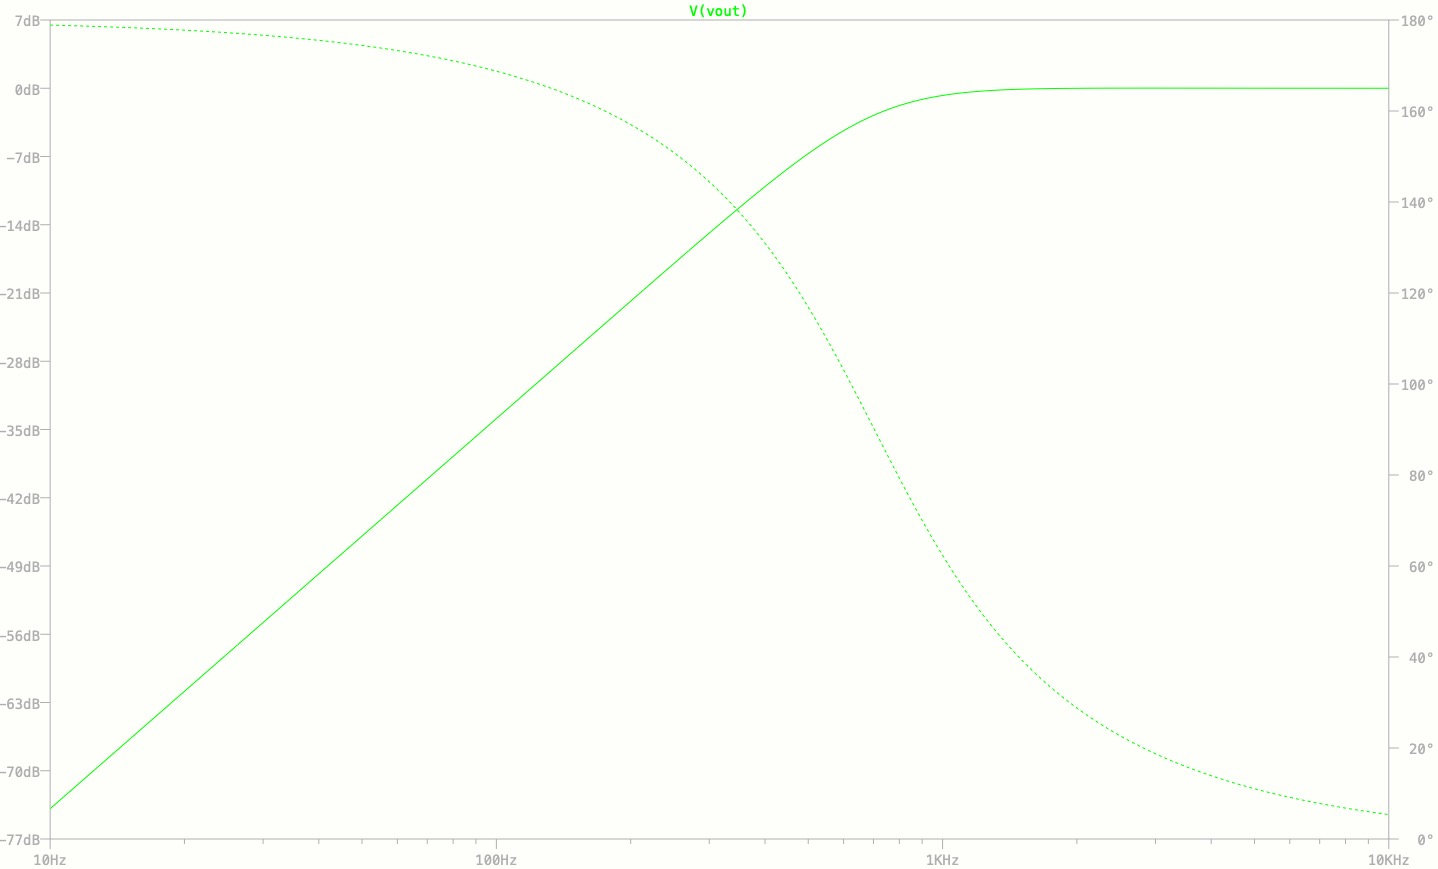
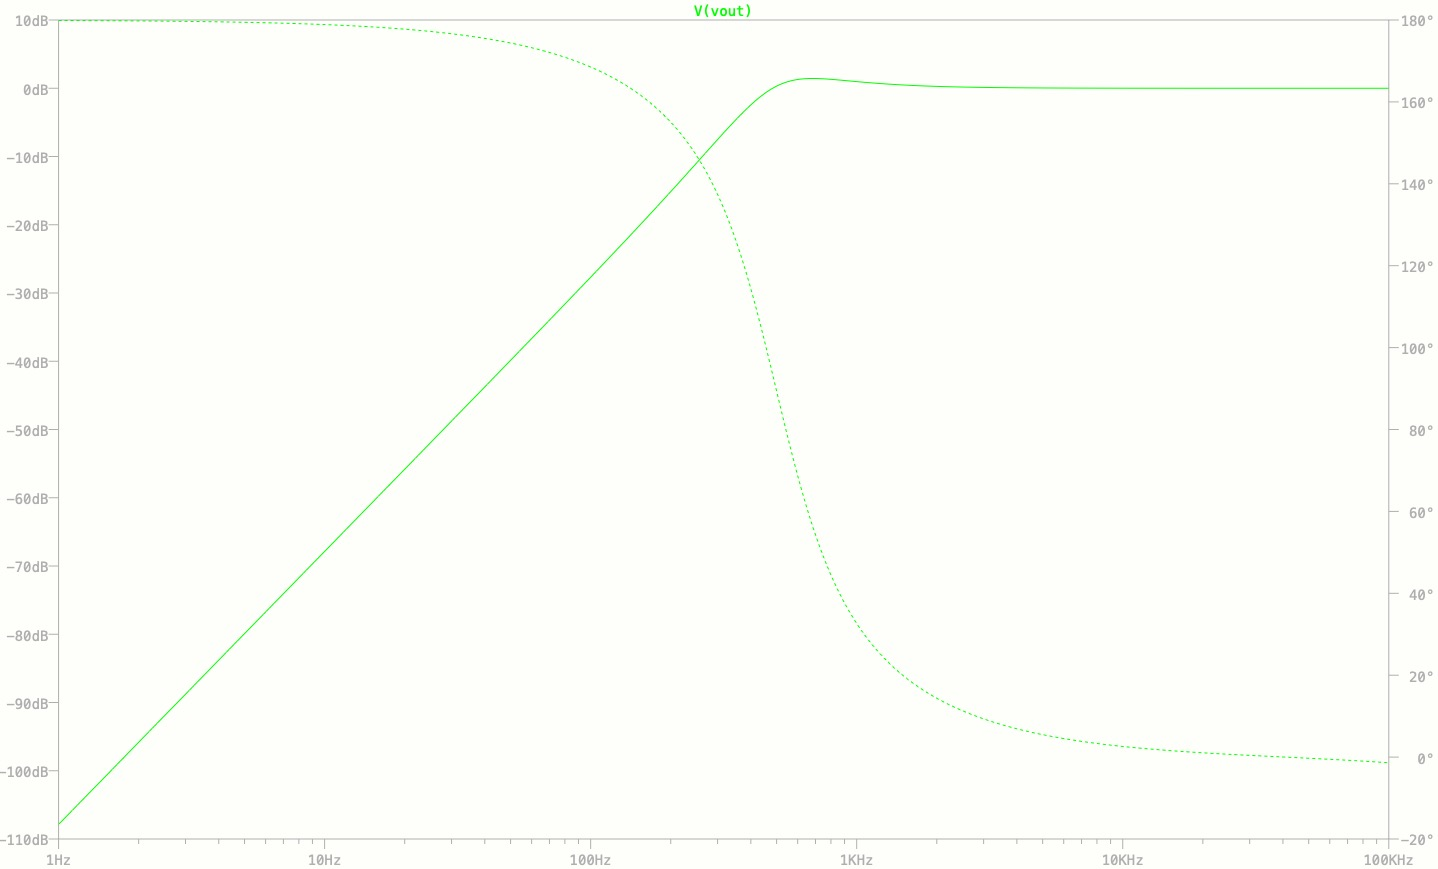
termine
Conclusiones. Rehice simulacion con r coorecta

diff --git a/Informe/desarrollo.tex b/Informe/desarrollo.tex
@@ -67,13 +67,13 @@ Se lograron los siguientes resultados.\\
 	\includegraphics[width=10cm]{imagenes/Step}
 	\caption{Respuesta al escal\'on.}
 \end{figure}
-Se puede observar que se logra un nivel de tensi\'on estable cerca de los $2 \ms$. Es esperable que se vea reflejado en un nivel de $1\V$ al comienzo del escal\'on si consideramos al ascenso a $1\V$  c\'omo una señal que contiene a todas las frecuencias. Adem\'as, se ve que el valor al que estabiliza es $0 \V$, que es acorde al comportamiento del filtro si se interpreta a la tensi\'on continua como una señal de frecuencia nula.\\
+Se puede observar que se logra un nivel de tensi\'on estable cerca de los $2 \ms$. Es esperable que se vea reflejado en un nivel de $1\V$ al comienzo del escal\'on si consideramos al ascenso a $1\V$  como una señal que contiene a todas las frecuencias. Adem\'as, se ve que el valor al que estabiliza es $0 \V$, que es acorde al comportamiento del filtro si se interpreta a la tensi\'on continua como una señal de frecuencia nula.\\
 
 \begin{figure}[hbt]
 	\centering
 	\includegraphics[width=10cm]{imagenes/Impulse}	\caption{Respuesta al impulso.}
 \end{figure}
-Aqui se observa que existe mucha mas variaci\'on de tensi\'on en el transitorio hasta los $0\V$, que se alcanzan en $2 \ms$. Debido a que solo se observa el comportamiento del impuslo desde el $0^+$, este tiene pendiente negativa y por ello el filtro tiene una salida con tensi\'on negativa. \\
+Aqu\'i se observa que existe mucha m\'as variaci\'on de tensi\'on en el transitorio hasta los $0\V$, que se alcanzan en $2 \ms$. Debido a que solo se observa el comportamiento del impuslo desde el $0^+$, este tiene pendiente negativa y por ello el filtro tiene una salida con tensi\'on negativa. \\
 Adem\'as, la señal deun impulso se puede considerar como la derivada del escal\'on, resulta entonces razonable con este tipo de sistema (Lineal y temporalmente invariante) que la salida sea la derivada del resultado anterior.
 
 \begin{figure}[H]
@@ -251,7 +251,16 @@ Aqui las diferencias entre el filtro real y el ideal son mas aparentes, esta dif
 %---------------------------------------------------------------%
 
 \subsection*{Simulaci\'on}
-	Para verificar que el funcionamiento del circuito sea cerca del esperado, se utiliz\'o el software de simulaci\'on \textit{LTSpice} con los componentes de valores comerciales. 
+	Para verificar que el funcionamiento del circuito sea cerca del esperado, se utiliz\'o el software de simulaci\'on \textit{LTSpice} con los componentes de valores comerciales. Se utiliz\'o el siguiente circuito.\\
+	
+		
+\begin{figure}[hbt]
+	\centering
+	\includegraphics[width=10cm]{imagenes/Simulacion}
+	\caption{Diagrama \textit{Bode} del circuito simulado}
+\end{figure}
+	
+\pagebreak	
 \begin{figure}[hbt]
 	\centering
 	\includegraphics[width=10cm]{imagenes/BodeSimulacion}
@@ -263,18 +272,18 @@ Se utiliz\'o la directiva \texttt{.ac dec 100 1 1000000 } para
 variar la  frecuencia de la fuente de entrada \texttt{ Vin } desde  $1 \si{\hertz}$ hasta $100 \kHz$. Luego se import\'o la biblioteca \textit{TL081} para el operacional. Produciendo este diagrama que resulta ser coherente con lo estudiado analiticamente.
 Luego, seguir\'an pruebas de respuesta en funci\'on de varias de las mismas señales que ya se estudiaron.
 
-\begin{figure}[h]
+\begin{figure}[hbt]
 \begin{centering}
 
 	\begin{minipage}[b]{.4\linewidth}
 	\centering
-	\includegraphics[width=1.3\linewidth]{imagenes/StepSimulacion}
+	\includegraphics[width=1.1\linewidth]{imagenes/StepSimulacion}
 	\caption{Respuesta al escal\'on del circuito simulado}
 	\end{minipage}
 	\hfill
 	\begin{minipage}[b]{.4\linewidth}
 	\centering
-	\includegraphics[width=1.3\linewidth]{imagenes/ImpulseSimulacion}
+	\includegraphics[width=1.1\linewidth]{imagenes/ImpulseSimulacion}
 	\caption{Respuesta al impulso del circuito simulado}
 	\end{minipage}
 \end{centering}
@@ -283,22 +292,33 @@ Luego, seguir\'an pruebas de respuesta en funci\'on de varias de las mismas señ
 
 Estas respuestas se corresponden con los resultados hallados anteriormente, encontrando diferencias en los niveles de tensi\'on. Siendo la curva azul, la  que representa la entrada y la curva verde la que representa la salida.
 
-\begin{figure}[h]
+\begin{figure}[H]
 \begin{centering}
 
 	\begin{minipage}[b]{.4\linewidth}
 	\centering
-	\includegraphics[width=1.3\linewidth]{imagenes/Sim}
-	\caption{Respuesta al escal\'on del circuito simulado}
+	\includegraphics[width=1.1\linewidth]{imagenes/SimCuadrada_f:10}
+	\caption{Respuesta a señal cuadrada de $f=\frac{f_0}{10}$ del circuito simulado}
 	\end{minipage}
 	\hfill
 	\begin{minipage}[b]{.4\linewidth}
 	\centering
-	\includegraphics[width=1.3\linewidth]{imagenes/ImpulseSimulacion}
-	\caption{Respuesta al impulso del circuito simulado}
+	\includegraphics[width=1.1\linewidth]{imagenes/SimCuadrada_f}
+	\caption{Respuesta a señal cuadrada de $f=f_0$ del circuito simulado}
 	\end{minipage}
 \end{centering}
+\pagebreak
 \end{figure}
+\begin{centering}
+\begin{figure}[H]
+	\centering	
+	\includegraphics[width=0.4\textwidth]{imagenes/SimCuadrada_10f}	\caption{Respuesta a señal cuadrada de $f=10.f_0$ del circuito simulado}
+\end{figure}
+\end{centering}
+Las respuestas a las señales cuadradas continuan comportandose similar al estudio anal\'itico, aunque existen diferencias en los niveles de tensi\'on que toman las señales.
+
+
+
 
 
 %---------------------------------------------------------------%

diff --git a/Informe/conclusiones.tex b/Informe/conclusiones.tex
@@ -1,0 +1,4 @@
+\section*{Conclusiones}
+\vspace{2ex}
+Los resultados del an\'alisis y s\'intesis del filtro \textit{Pasa Altos} se corroboran entre el m\'etodo anal\'itico y la simulaci\'on. Si bien todavia queda pendiente la realizaci\'on del circuito y las pruebas de medici\'on, este estudio preliminar puede concluir en que el filtro diseñado cumple aceptablemente con las especificaciones propuestas en la consigna del trabajo pr\'actico.
+

diff --git a/Informe/paquetes.tex b/Informe/paquetes.tex
@@ -11,7 +11,7 @@
 \usepackage{siunitx}
 \setlength{\headheight}{28pt}
 \usepackage{subfig}
-
+\usepackage{wrapfig}
 
 
 % Paquetes para dibujar circuitos en LaTeX

diff --git a/Informe/main.tex b/Informe/main.tex
@@ -11,6 +11,7 @@
 
 	\input caratula.tex
 	\input desarrollo.tex
+	\input conclusiones.tex
 	
 	% TODO: hacer desarrollo.tex
 	% TODO: hacer conclusiones.tex
